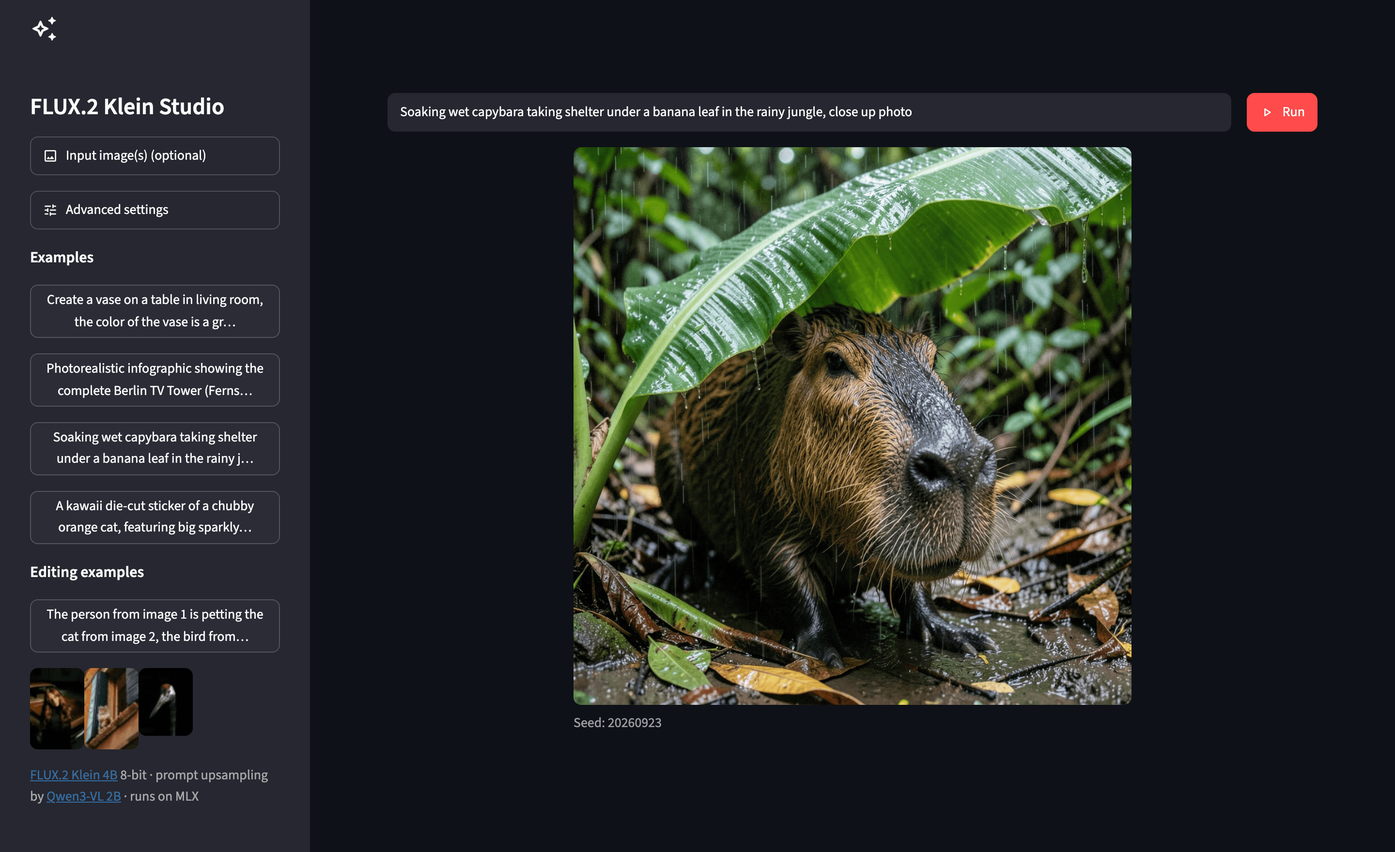
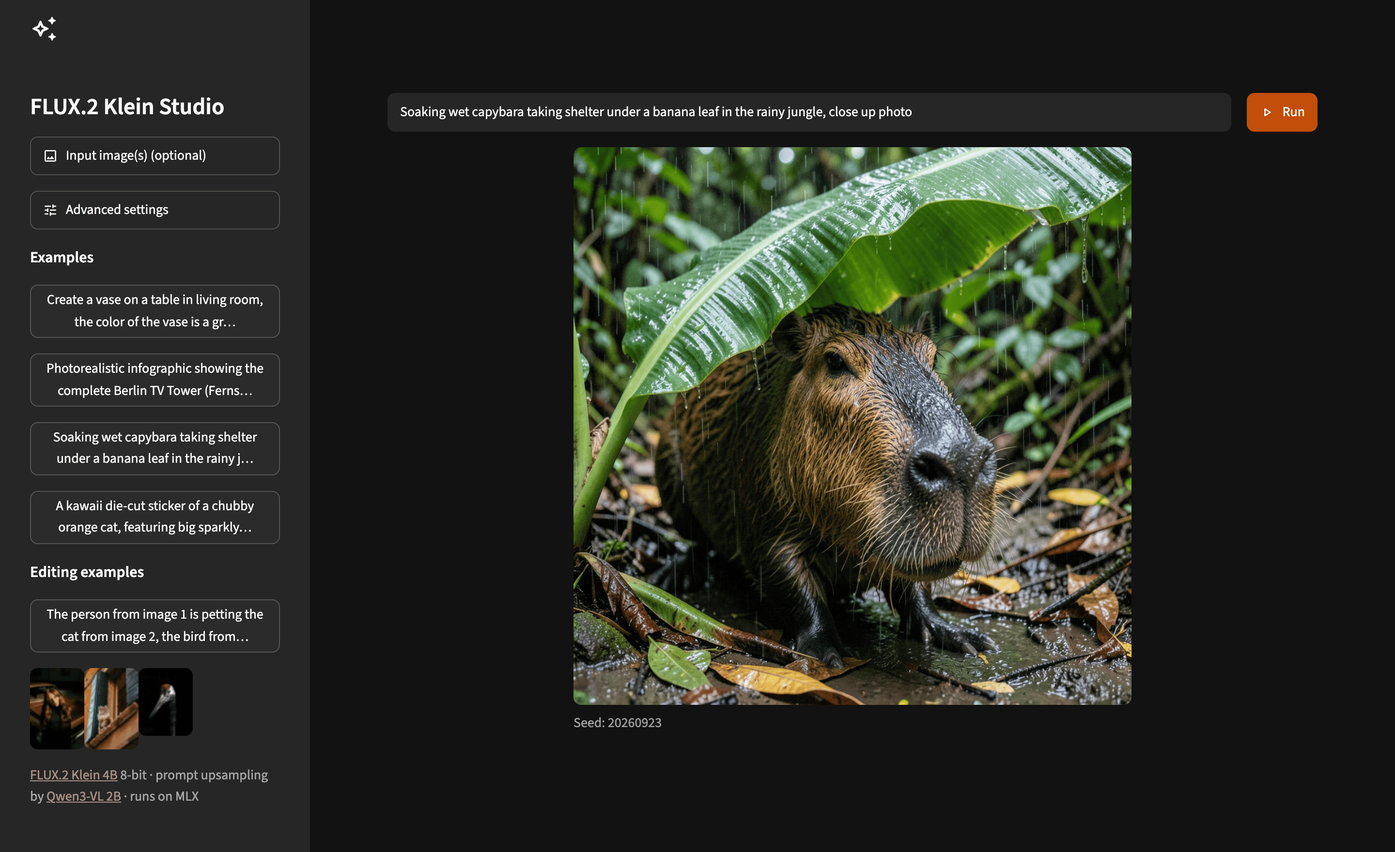
feat(theme): add a graphite "Darkroom" dark theme over stock light
The app's dark mode was Streamlit's stock theme, which fails WCAG AA in
three places this app draws: the white Run label on #FF4B4B (3.30:1),
the slider values in primary on the sidebar (4.49:1), and the model
links, since st.caption draws at 0.6 opacity (2.77:1). Its navy #0E1117
surround also tints how a generated image is judged.

.streamlit/config.toml now populates only [theme.dark] and
[theme.dark.sidebar], with color keys only:
- An R=G=B graphite surround: #121212 page, #262626 panel.
- One ember accent: #C24E0A carries the white Run label (4.79:1), and a
  lighter #E56E36 in the sidebar carries the slider values (4.77:1). A
  primary dark enough for a white label cannot also pass as text on a
  non-black panel, so the two shades are forced.
- linkColor sized for the caption opacity (5.05:1), a gold warning in
  place of stock's olive, and a slate enhanced-prompt banner.
- textColor pinned at stock #FAFAFA. Left unset, 1.64 logs "Invalid
  color passed for textColor in theme.sidebar" whenever dark renders.

Streamlit 1.64 (xn/yn in static/js/utils.*.js) builds each mode from
the top-level [theme] keys plus that mode's table, so keeping every key
in the dark tables leaves light mode stock and keeps the
System/Light/Dark switcher. Colors only because the canvas fold budget
is measured against stock metrics, and a font URL would put a network
fetch in a local app.

Accepted costs, recorded in config.toml and CLAUDE.md:
[…]

diff --git a/tests/test_streamlit_app.py b/tests/test_streamlit_app.py
@@ -2,6 +2,7 @@ import contextlib
 import importlib
 import io
 import math
+import re
 import tomllib
 from pathlib import Path
 from unittest.mock import MagicMock, patch
@@ -97,6 +98,64 @@ _CONFIG_PATH = _REPO_ROOT / ".streamlit" / "config.toml"
 # absolute path and stay independent of both.
 _APP_PATH = _REPO_ROOT / "streamlit_app.py"
 
+# WCAG 2.x AA minimums: 4.5:1 for normal-size text, 3:1 for the visual boundary
+# of a UI component (success criterion 1.4.11).
+_WCAG_AA_TEXT = 4.5
+_WCAG_AA_NON_TEXT = 3.0
+# Streamlit 1.64 draws a whole st.caption block at this opacity, so a caption
+# link's rendered color is a blend with the surface under it.
+_CAPTION_OPACITY = 0.6
+# Streamlit 1.64's stock dark (fill, text) per alert hue -- `Et` in
+# static/js/utils.*.js, the fill being the hue at 20% alpha. An alert key
+# [theme.dark] leaves unset falls back to these.
+_STOCK_DARK_ALERTS = {
+    "red": ("#FF6C6C33", "#FF6C6C"),
+    "yellow": ("#FFFF1233", "#FFFFC2"),
+    "blue": ("#3D9DF333", "#3D9DF3"),
+}
+# The alerts the app draws, and where: notices.error (red), notices.warning and
+# upsample_prompt's warning (yellow) and the enhanced-prompt banner (blue) in
+# main; image-load warnings (yellow) in the sidebar.
+_APP_ALERTS = {"red": ("page",), "yellow": ("page", "sidebar"), "blue": ("page",)}
+
+
+def _load_dark_theme():
+    """Return the ([theme.dark], [theme.dark.sidebar]) tables of config.toml."""
+    with _CONFIG_PATH.open("rb") as fh:
+        dark = tomllib.load(fh)["theme"]["dark"]
+    return dark, dark.get("sidebar", {})
+
+
+def _rgba(color):
+    """(r, g, b, alpha) of a #rrggbb or #rrggbbaa color; alpha in 0..1."""
+    h = color.lstrip("#")
+    r, g, b = (int(h[i : i + 2], 16) for i in (0, 2, 4))
+    return r, g, b, int(h[6:8], 16) / 255 if len(h) == 8 else 1.0
+
+
+def _over(fg, bg, opacity=1.0):
+    """#rrggbb[aa] fg composited over opaque bg, returned as #rrggbb."""
+    *rgb, alpha = _rgba(fg)
+    a = alpha * opacity
+    mixed = (f * a + b * (1 - a) for f, b in zip(rgb, _rgba(bg)[:3], strict=True))
+    return "#" + "".join(f"{round(c):02x}" for c in mixed)
+
+
+def _relative_luminance(color):
+    """WCAG relative luminance of an opaque #rrggbb color."""
+    *rgb, alpha = _rgba(color)
+    assert alpha == 1.0, f"{color} is translucent: composite it with _over first"
+    srgb = [c / 255 for c in rgb]
+    linear = [c / 12.92 if c <= 0.04045 else ((c + 0.055) / 1.055) ** 2.4 for c in srgb]
+    r, g, b = linear
+    return 0.2126 * r + 0.7152 * g + 0.0722 * b
+
+
+def _contrast_ratio(fg, bg):
+    """WCAG contrast ratio between two opaque #rrggbb colors (>= 1.0)."""
+    lo, hi = sorted((_relative_luminance(fg), _relative_luminance(bg)))
+    return (hi + 0.05) / (lo + 0.05)
+
 
 def _reload_app(mock_model, *, mock_edit_model=None, mock_vlm=None):
     """Reload app module with mocked heavy dependencies and passthrough cache."""
@@ -183,29 +242,129 @@ class TestConstants:
 
 
 class TestThemeConfig:
-    """.streamlit/config.toml must declare no custom theme.
+    """.streamlit/config.toml: a dark-only color theme over stock light.
 
-    The app ships Streamlit's stock light and dark themes, so the palette and
-    its contrast are Streamlit's contract, not this repo's. What needs locking
-    is the *absence*: any [theme] key makes this a custom theme, and a custom
-    theme with neither [theme.light] nor [theme.dark] populated collapses to a
-    single mode -- the frontend branches on `light || dark`, so one populated
-    variant keeps the switcher while a lone `font` populates neither and costs
-    it. Scope: this reads the committed file, so it cannot see a theme injected
-    at runtime (`--theme.base dark`, STREAMLIT_THEME_*, ~/.streamlit) -- which is
-    what the screenshot recipe in CLAUDE.md deliberately does.
+    Two contracts. Shape: every key lives in [theme.dark] or
+    [theme.dark.sidebar] and is a color. The frontend builds each mode as the
+    top-level [theme] keys plus that mode's table, so anything outside the dark
+    tables leaks into light mode (a lone top-level `font` would populate
+    neither table and cost the Light/Dark/System switcher outright). Contrast:
+    the palette is this repo's own now, so WCAG AA is too.
+
+    The contrast tests model these Streamlit 1.64 frontend behaviors, to be
+    re-checked on an upgrade: the sidebar inherits every dark key it does not
+    override, its background falling back to secondaryBackgroundColor; the
+    primary button's label is white; the prompt field and the progress track
+    are secondaryBackgroundColor, the progress fill primaryColor; links are
+    linkColor, else blueTextColor; st.caption draws at 0.6 opacity; and
+    st.error/warning/info draw red/yellow/blue *BackgroundColor (translucent)
+    under *TextColor, falling back to _STOCK_DARK_ALERTS. Scope: this reads the
+    committed file, so it cannot see a theme injected at runtime
+    (STREAMLIT_THEME_*, ~/.streamlit), nor the one light-mode cost a custom
+    theme carries (the Run progress bar turns primary red; see config.toml).
     """
 
-    def test_no_custom_theme_is_declared(self):
-        assert _CONFIG_PATH.is_file(), (
-            f"{_CONFIG_PATH.name} is gone, and with it the only record of why "
-            "the theme is empty -- keep the file even though it sets nothing"
-        )
+    def test_only_the_dark_tables_are_declared(self):
         with _CONFIG_PATH.open("rb") as fh:
-            config = tomllib.load(fh)
-        assert "theme" not in config, (
-            f"custom theme declared in {_CONFIG_PATH.name}: {sorted(config['theme'])}"
+            theme = tomllib.load(fh)["theme"]
+        assert set(theme) == {"dark"}, (
+            f"[theme] keys outside [theme.dark] leak into light mode: "
+            f"{sorted(set(theme) - {'dark'})}"
         )
+        tables = {k for k, v in theme["dark"].items() if isinstance(v, dict)}
+        assert tables <= {"sidebar"}, f"unexpected tables: {sorted(tables)}"
+
+    def test_only_color_keys_are_set(self):
+        # The canvas fold budget is measured against stock font, size and
+        # radius metrics, and a mode switch should change nothing but color.
+        # Values must be #rrggbb, the format the contrast helpers read; only an
+        # alert fill, which they composite, may carry an alpha byte. (The app
+        # draws no charts, so the chart*Colors lists have no place here.)
+        dark, sidebar = _load_dark_theme()
+        tables = {"theme.dark": dark, "theme.dark.sidebar": sidebar}
+        alert_fill = re.compile(r"(red|orange|yellow|green|blue|violet)BackgroundColor")
+        opaque, translucent = r"#[0-9A-Fa-f]{6}", r"#[0-9A-Fa-f]{6}([0-9A-Fa-f]{2})?"
+        for name, table in tables.items():
+            for key, value in table.items():
+                if isinstance(value, dict):
+                    continue
+                assert key.endswith("Color"), f"[{name}] {key}"
+                pattern = translucent if alert_fill.fullmatch(key) else opaque
+                assert re.fullmatch(pattern, value), (
+                    f"[{name}] {key} = {value!r}: not a #rrggbb color"
+                )
+
+    def test_body_text_contrast_meets_wcag_aa(self):
+        dark, sidebar = _load_dark_theme()
+        text = dark["textColor"]
+        pairs = {
+            "page": (text, dark["backgroundColor"]),
+            "prompt field": (text, dark["secondaryBackgroundColor"]),
+            "sidebar": (
+                sidebar.get("textColor", text),
+                sidebar.get("backgroundColor", dark["secondaryBackgroundColor"]),
+            ),
+        }
+        for name, (fg, bg) in pairs.items():
+            ratio = _contrast_ratio(fg, bg)
+            assert ratio >= _WCAG_AA_TEXT, f"text on {name}: {ratio:.2f}:1"
+
+    def test_run_button_meets_wcag_aa(self):
+        # Streamlit draws the primary button's label white on primaryColor --
+        # stock #FF4B4B gave 3.30:1. The button must also stand out from the
+        # page, and as the prompt field's focus border and the progress fill
+        # it sits on secondaryBackgroundColor.
+        dark, _ = _load_dark_theme()
+        primary = dark["primaryColor"]
+        label = _contrast_ratio("#ffffff", primary)
+        assert label >= _WCAG_AA_TEXT, f"Run label: {label:.2f}:1"
+        for surface in ("backgroundColor", "secondaryBackgroundColor"):
+            ratio = _contrast_ratio(primary, dark[surface])
+            assert ratio >= _WCAG_AA_NON_TEXT, f"primary on {surface}: {ratio:.2f}:1"
+
+    def test_sidebar_accent_reads_as_text(self):
+        # The slider values are text in the sidebar's primaryColor. A primary
+        # dark enough for a white label cannot also pass on a non-black panel,
+        # so the sidebar carries its own, lighter one.
+        dark, sidebar = _load_dark_theme()
+        accent = sidebar.get("primaryColor", dark["primaryColor"])
+        panel = sidebar.get("backgroundColor", dark["secondaryBackgroundColor"])
+        ratio = _contrast_ratio(accent, panel)
+        assert ratio >= _WCAG_AA_TEXT, f"slider values: {ratio:.2f}:1"
+
+    def test_caption_links_meet_wcag_aa_through_the_caption_opacity(self):
+        # The app's only links are in the sidebar's model caption. Unset, a
+        # link is the theme's blueTextColor, which measured 2.77:1 through the
+        # caption's opacity on stock dark.
+        dark, sidebar = _load_dark_theme()
+        link = sidebar.get("linkColor", dark.get("linkColor"))
+        assert link is not None, "linkColor unset: links fall back to blueTextColor"
+        panel = sidebar.get("backgroundColor", dark["secondaryBackgroundColor"])
+        rendered = _over(link, panel, opacity=_CAPTION_OPACITY)
+        ratio = _contrast_ratio(rendered, panel)
+        assert ratio >= _WCAG_AA_TEXT, f"caption link {rendered}: {ratio:.2f}:1"
+
+    def test_alert_text_contrast_meets_wcag_aa(self):
+        # Every alert the app draws, on each surface it draws on, whether or
+        # not the config restyles its hue: an unset key is stock, and stock red
+        # measures 4.40:1 on a #1E1E1E page. Alert fills are translucent, so
+        # the text is measured against the fill composited onto the surface.
+        dark, sidebar = _load_dark_theme()
+        surfaces = {
+            "page": dark["backgroundColor"],
+            "sidebar": sidebar.get("backgroundColor", dark["secondaryBackgroundColor"]),
+        }
+        for hue, where in _APP_ALERTS.items():
+            # A <hue>Color would derive the unset keys instead of stock.
+            assert f"{hue}Color" not in dark, f"{hue}Color is set: model its derivation"
+            stock_fill, stock_text = _STOCK_DARK_ALERTS[hue]
+            text = dark.get(f"{hue}TextColor", stock_text)
+            for name in where:
+                fill = _over(
+                    dark.get(f"{hue}BackgroundColor", stock_fill), surfaces[name]
+                )
+                ratio = _contrast_ratio(text, fill)
+                assert ratio >= _WCAG_AA_TEXT, f"{hue} alert on {name}: {ratio:.2f}:1"
 
 
 class TestModelLoading:
@@ -706,7 +865,7 @@ class TestCanvasGeometry:
         for w, h in [(1024, 1024), (672, 1024), (1024, 576), (256, 1024)]:
             canvas = streamlit_app._blank_canvas(w, h)
             assert canvas.width * h == canvas.height * w
-            # Translucent, so it reads on both stock themes.
+            # Translucent, so it reads on stock light and the graphite dark theme.
             assert canvas.mode == "RGBA"
             assert canvas.getpixel((0, 0))[3] < 255
 

diff --git a/streamlit_app.py b/streamlit_app.py
@@ -49,8 +49,8 @@ CANVAS_HEIGHT_RATIO = 0.6
 CANVAS_MAX_HEIGHT = 660
 
 # Fill of the blank canvas that stands in for the picture before it exists.
-# Mid-gray at low alpha reads as a faint panel on both stock themes, so no
-# theme color is hard-coded.
+# Mid-gray at low alpha reads as a faint panel on both the stock light theme
+# and the graphite dark one, so no theme color is hard-coded.
 CANVAS_FILL = (128, 128, 128, 28)
 
 VLM_MODEL_ID = "mlx-community/Qwen3-VL-2B-Instruct-8bit"

diff --git a/CLAUDE.md b/CLAUDE.md
@@ -45,6 +45,7 @@ All four green, plus `README.md` re-synced if mirrored content moved. The `Stop`
 | Don't move the prompt bar into the sidebar | The sidebar still auto-collapses on narrow viewports (an int `initial_sidebar_state` keeps `"auto"`), which would hide the primary action | `test_prompt_and_canvas_in_main_controls_in_sidebar` |
 | Don't drop the canvas's pixel cap (`CANVAS_MAX_HEIGHT`) | The column-share bound alone regrows the picture when the main area widens without the window growing taller: collapsing the sidebar at 1440×880 pushes a square and its seed caption back past the fold, the bug the sidebar layout fixed | `test_the_pixel_cap_is_load_bearing`, `test_successful_run_stores_and_renders_result` |
 | Don't retune `SIDEBAR_WIDTH`, `CANVAS_HEIGHT_RATIO` or `CANVAS_MAX_HEIGHT` alone | The fold budget is measured, not derived — retune them together and re-measure with the screenshot recipe (see the canvas bullet under Architecture). The fold model catches only a retune that grows the picture past the fold; a smaller canvas, or a sidebar width that re-wraps the example labels, passes it, which is why the trio is also pinned | `test_layout_constants_are_the_measured_ones`, `test_picture_and_caption_fit_the_measured_viewports` |
+| Don't put theme keys outside `[theme.dark]`/`[theme.dark.sidebar]`, or non-color keys inside them | A top-level `[theme]` key or a `[theme.sidebar]` table leaks into light mode, and a lone top-level `font` collapses the app to one `Custom Theme` with no light/dark switcher. A font, size or radius key shifts the measured fold budget — see the theme bullet under Architecture | `TestThemeConfig` |
 | Don't drop the `mx.eval` in `_materialized` | Streamlit runs each rerun on a new thread and MLX streams are per-thread, so lazily loaded mflux weights work only on the thread that loaded them: every Run after the first fails with `There is no Stream(cpu, 0) in current thread` — see Gotchas | `test_cached_models_generate_on_a_new_thread` (`-m smoke`), `test_getters_materialize_the_weights_before_caching` |
 | Don't rename `call_in_loop`'s six parameters | mflux invokes it entirely by keyword, unused params included | `tests/test_smoke.py` |
 | Don't "fix" `image_paths` to accept only `str` paths | It takes PIL Images at runtime and the UI depends on it; the mocked suite cannot see this | `test_edit_accepts_the_pil_images_the_ui_builds` (`-m smoke`) |
@@ -67,7 +68,7 @@ All four green, plus `README.md` re-synced if mirrored content moved. The `Stop`
 | `docs/` | the README screenshot |
 | `.claude/` | repo-shared Claude Code hooks |
 | `.github/workflows/` | CI quality gates + release |
-| `.streamlit/config.toml` | Streamlit config — deliberately carries no `[theme]` |
+| `.streamlit/config.toml` | Streamlit config — a dark-only color theme (`[theme.dark]` + `[theme.dark.sidebar]`); light mode is stock except the Run progress bar (see the theme bullet) |
 | `LICENSE` | MIT — mirrored by `license = "MIT"` in `pyproject.toml` and README's License section, all three locked by `tests/test_license.py` |
 
 `streamlit_app.py` is structured in four sections:
@@ -96,7 +97,10 @@ All four green, plus `README.md` re-synced if mirrored content moved. The `Stop`
      - At 640px wide or less the columns stack, so a square jumps from 365² at 641px to 608² at 640px, and a 640×700 window clips 60px. Phones fit, for example 358² at 390×844.
      - A 2560-wide screen leaves the space above 660px unused.
      - `st.image`'s hover toolbar floats about 30px above the picture, so while the pointer is over the canvas it covers the right end of the prompt bar. The swatch also offers a Fullscreen of an empty square. Streamlit 1.64 has no per-element toolbar switch, and the swatch has to be an image to stay aspect-true without custom HTML.
-   - **The theme is Streamlit's own.** `.streamlit/config.toml` declares no `[theme]` section at all, so the stock light and dark themes apply and the in-app appearance switcher picks between them. That absence is the setting: adding back *any* `[theme]` key makes it a custom theme, and a custom theme with **neither** `[theme.light]` nor `[theme.dark]` populated collapses to one `Custom Theme` with no light/dark switcher — the frontend's variant branch (`xn` in 1.64.0's `static/js/utils.*.js`; the minified name moves every release, it was `Lu` in 1.61.1) tests `light || dark`, so one populated variant is enough to keep it, while a lone `font` populates neither and costs it. `TestThemeConfig` locks the absence; the palette's contrast is Streamlit's contract, not this repo's. **Accepted with a known cost:** Streamlit's stock `#FF4B4B` primary renders white button labels at 3.30:1, under WCAG AA's 4.5:1 for normal text — measured on the Run button in `docs/screenshot-dark.png`, where the retired custom palette passed at 5.19:1 light / 4.62:1 dark. Taken deliberately as upstream's call, which is why no contrast test survives; a `primaryColor`-only `[theme.light]`/`[theme.dark]` pair would restore AA without giving up the rest of the stock theme. No custom CSS either.
+   - **The dark theme is this repo's; the light theme is Streamlit's.** `.streamlit/config.toml` populates only `[theme.dark]` and `[theme.dark.sidebar]`, with color keys only. The frontend (`xn`/`yn` in 1.64.0's `static/js/utils.*.js`; minified names move every release, `xn` was `Lu` in 1.61.1) offers System/Light/Dark once either mode's table is populated, and builds each mode as the top-level `[theme]` keys plus that mode's table, merged onto the stock palette of the same base. So a top-level `[theme]` key or a `[theme.sidebar]` table leaks into light mode, and a custom theme populating neither mode's table (a lone `font`) collapses to one `Custom Theme` with no switcher. Colors only because the canvas fold budget is measured against stock font, size and radius metrics, a mode switch should change nothing but color, and a Google Fonts URL would put a network fetch in a local app. No custom CSS either.
+     - **The palette ("Darkroom").** An R=G=B graphite surround — `#121212` page, `#262626` for the prompt field and, by fallback, the sidebar — so a generated image is judged without stock's navy cast, and one ember accent, `#C24E0A`, in the warm family of light mode's red. The accent comes in two lightnesses because the arithmetic forces it: a primary dark enough for a white Run label at AA (relative luminance ≤ 0.183) cannot also pass as text on a non-black panel, so `[theme.dark.sidebar]`'s lighter `#E56E36` carries the slider values. `linkColor` is sized for `st.caption`'s 0.6 opacity (the only links are in the sidebar's model caption); the warning is gold instead of stock's olive, and the enhanced-prompt banner under the canvas is a calm slate. `textColor` is pinned at the stock `#FAFAFA` so every contrast pair is read from the file, and because, left unset, 1.64 logs `Invalid color passed for textColor in theme.sidebar` to the browser console whenever dark mode renders, once `[theme.dark.sidebar]` exists.
+     - **Fixed against stock dark:** Run label 3.30 → 4.79:1, slider values 4.49 → 4.77:1, caption links 2.77 → 5.05:1. `TestThemeConfig` locks the shape (dark tables only, color keys only, `#rrggbb` values with alpha only on alert fills) and the AA contrast of every pair the app draws, including alerts whose keys the config leaves at stock — stock red, `notices.error`, measures 4.40:1 on a `#1E1E1E` page. It models the 1.64 frontend behaviors its docstring lists (sidebar inheritance and fallbacks, the white primary label, the progress fill, `linkColor` else `blueTextColor`, the caption opacity, the stock alert palette); re-check them on an upgrade. Each test was checked against the regressions it guards (stock red primary, no sidebar primary, stock-blue link, a top-level `font`, a translucent `textColor`, a fill-only red alert, …): every mutant fails the test that guards it.
+     - **Accepted costs.** (1) Light mode is stock except mid-run: any custom theme sets Streamlit's `secondary` color to `primaryColor` (`secondary:w??n.primary`), so the light-mode Run progress bar is red `#FF4B4B`, not blue `#1C83E1` — 2.95:1 on its track against 3.48:1. No config avoids it short of shipping no custom theme; the status label repeats `step k/n`. (2) On hover and focus Streamlit subtracts 15 points of HSL lightness from the primary, so the Run button goes to `#793006` (2.00:1 on the page) and its 50% focus ring nearly merges with it — structural for any AA-legal white-label primary on a near-black page. (3) Light mode's Run label keeps stock's 3.30:1; fixing it needs a `[theme.light] primaryColor`, which makes light non-stock and means relaxing `test_only_the_dark_tables_are_declared`.
 
 ## Commands
 
@@ -200,5 +204,5 @@ Cut by bumping `version` in `pyproject.toml` and pushing to `main` — nothing e
 - **All models share MLX unified memory, but not with each other**: `_get_model()` and `_get_edit_model()` are separate `@st.cache_resource` entries holding separate weight copies (they do share the single HF download), and Qwen3-VL-2B-8bit is a third. **Weight size badly understates the real footprint** — with only the txt2img model loaded, `phys_footprint` measured 24 GB after one 1024×1024 run against 8.6GB of weights. The excess is MLX's Metal buffer cache plus activations — reclaimable rather than leaked, with `mx.clear_cache()` as the lever. Budget from measurement, not from safetensors sizes.
 - **Streamlit widget state cannot be modified after instantiation.** Use `on_click` callbacks to set `st.session_state` keys for widgets, not direct assignment after the widget is created. Keyed expanders are the exception — `st.expander(key=...)` registers with writes allowed, so callbacks may set `st.session_state.input_expander` directly.
 - **The working tree carries an untracked `.env`, but the app reads no environment variables** and needs no HF token — don't wire configuration through it.
-- **`docs/screenshot-dark.png` is the README hero** — one shot, dark only; there is no light counterpart. `tests/test_readme.py` locks that the README's local images exist and are git-tracked, never that they match the UI, so any change to the sidebar or the canvas means re-shooting. Last re-shot 2026-09-23 for the sidebar layout, on Streamlit 1.64.0. It shows the result state of a real 4-step generation of the capybara example (seed 20260923), not an injected photo. The image was generated offline with `infer()` and seeded into `st.session_state.result_image`/`result_seed` by a throwaway wrapper that `runpy`s the app as `__main__`, so the shot needs no click-through. Nothing re-checks that the hero still matches the UI afterwards. The recipe, because two obvious routes both fail: serve the app with `--theme.base dark --client.toolbarMode minimal` (forces dark deterministically and hides the Deploy toolbar). That flag *is* a custom theme, and the page renders down the custom-theme path — but `base` alone merges onto the stock Dark palette, so the pixels are the stock theme's; verified on the asset, background `#0E1117` and primary `#FF4B4B`. Then drive headless Chrome over CDP on `--remote-debugging-port`, `Emulation.setDeviceMetricsOverride` at 1440×880 / `deviceScaleFactor: 2`, polling `document.body.innerText` until the app renders before `Page.captureScreenshot`. Chrome's one-shot `--screenshot` flag fires at the load event and catches Streamlit's skeleton placeholder instead, and macOS `screencapture` can only reach 1× on a non-Retina display — this machine has none, and the asset is 2×. No crop any more: the sidebar spans the full height, so the committed 2880×1760 is the raw capture. It is palette-quantized with `pngquant --quality 85-98` (2.6MB → 0.9MB), and the theme colors above survive exactly, as does the sidebar's `#262730`.
+- **`docs/screenshot-dark.png` is the README hero** — one shot, dark only; there is no light counterpart. `tests/test_readme.py` locks that the README's local images exist and are git-tracked, never that they match the UI, so any change to the sidebar or the canvas means re-shooting. Last re-shot 2026-09-24 for the Darkroom dark theme, on Streamlit 1.64.0. It shows the result state of a real 4-step generation of the capybara example (seed 20260923), not an injected photo. The image was generated offline with `infer()` and seeded into `st.session_state.result_image`/`result_seed` (plus the prompt keys, so the prompt bar shows it) by a throwaway wrapper that `runpy`s the app as `__main__`, so the shot needs no click-through. Nothing re-checks that the hero still matches the UI afterwards. The recipe, because the obvious routes fail: serve the app with `--client.toolbarMode minimal` (hides the Deploy toolbar) and force dark in the browser, not the server. With `[theme.dark]` populated the app follows System, and `--theme.base dark` no longer forces anything because each mode overrides `base`; so before navigating, send CDP `Emulation.setEmulatedMedia` with `prefers-color-scheme: dark`. Verified on the asset: page `#121212`, sidebar and prompt field `#262626`, Run `#C24E0A`. Drive headless Chrome over CDP on `--remote-debugging-port`, `Emulation.setDeviceMetricsOverride` at 1440×880 / `deviceScaleFactor: 2`, polling `document.body.innerText` until the app renders before `Page.captureScreenshot`. Chrome's one-shot `--screenshot` flag fires at the load event and catches Streamlit's skeleton placeholder instead, and macOS `screencapture` can only reach 1× on a non-Retina display — this machine has none, and the asset is 2×. No crop any more: the sidebar spans the full height, so the committed 2880×1760 is the raw capture. It is palette-quantized with `pngquant --quality 85-98` (2.6MB → 1.0MB), and the theme colors above survive exactly.
 - **Commit style:** Conventional Commits (including the local `harden(...)` type, and `feat!:` for breaking changes) with a body that states the evidence, on a `<type>/<slug>` topic branch merged with `--no-ff`. There is no pre-commit config — the `.claude/` hooks are the only local automation.

diff --git a/README.md b/README.md
@@ -7,9 +7,9 @@
 Streamlit application for generating and editing images using Black Forest Labs [FLUX.2 Klein](https://huggingface.co/black-forest-labs/FLUX.2-klein-4B) on Apple Silicon with MLX, running the [8-bit quantized distilled 4B](https://huggingface.co/mlx-community/flux2-klein-4b-8bit) weights.
 
 <p align="center">
-  <img src="docs/screenshot-dark.png" width="100%" alt="FLUX.2 Klein Studio in Streamlit's dark theme — settings sidebar, prompt bar and canvas">
+  <img src="docs/screenshot-dark.png" width="100%" alt="FLUX.2 Klein Studio in its graphite dark theme — settings sidebar, prompt bar and canvas">
 </p>
-<p align="center"><sub>Settings and examples in the sidebar, a real 4-step generation on the canvas — Streamlit's default dark theme (the stock light theme ships too)</sub></p>
+<p align="center"><sub>Settings and examples in the sidebar, a real 4-step generation on the canvas — the app's graphite dark theme (Streamlit's stock light theme ships too)</sub></p>
 
 ## Features
 
@@ -24,7 +24,7 @@ Streamlit application for generating and editing images using Black Forest Labs 
 - Clickable examples — text-to-image prompts plus an editing example with bundled input images (loading one replaces any manual upload)
 - Per-step progress shown on the canvas, right where the image will land, with a labeled status while the prompt is enhanced and spinners for first-time model loads
 - Configurable seed, dimensions, and inference steps in the sidebar's Advanced settings
-- Streamlit's default light and dark themes — no custom theme or CSS, so the in-app appearance switcher picks the mode
+- A graphite dark theme built for judging images — a neutral surround with no color cast and one ember accent, at WCAG AA contrast — beside Streamlit's stock light theme (except that, as under any custom theme, light mode's Run progress bar turns red). Colors only, set in `.streamlit/config.toml` (no CSS), so the in-app appearance switcher still picks the mode
 - Graceful failure handling — empty runs are blocked; unreadable uploads and generation errors surface inline instead of crashing the app
 
 ## Requirements
